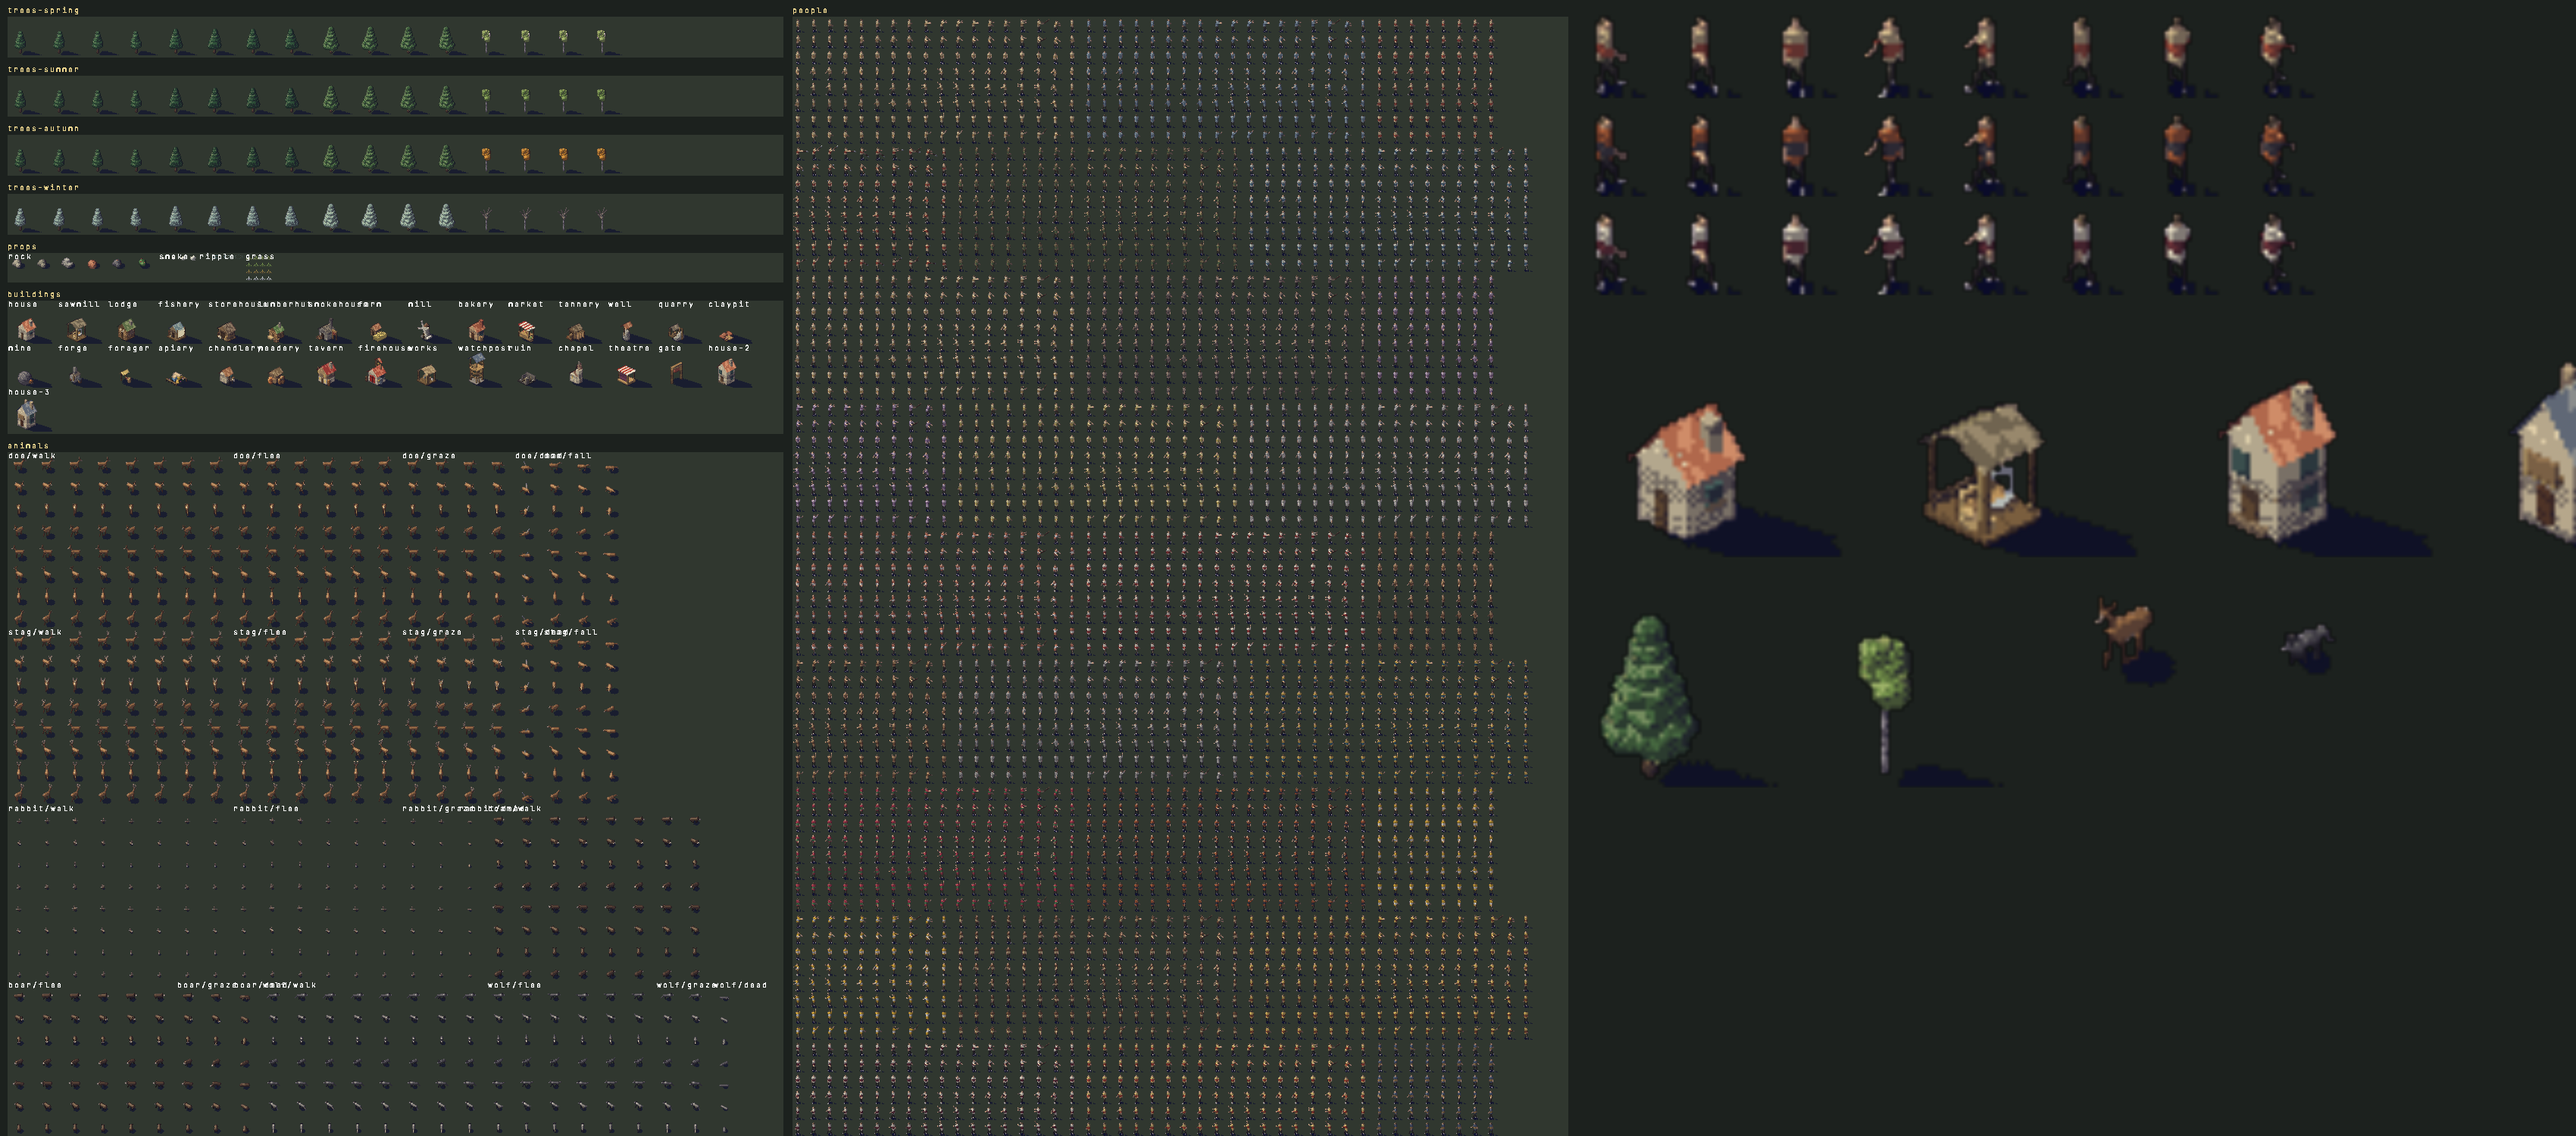
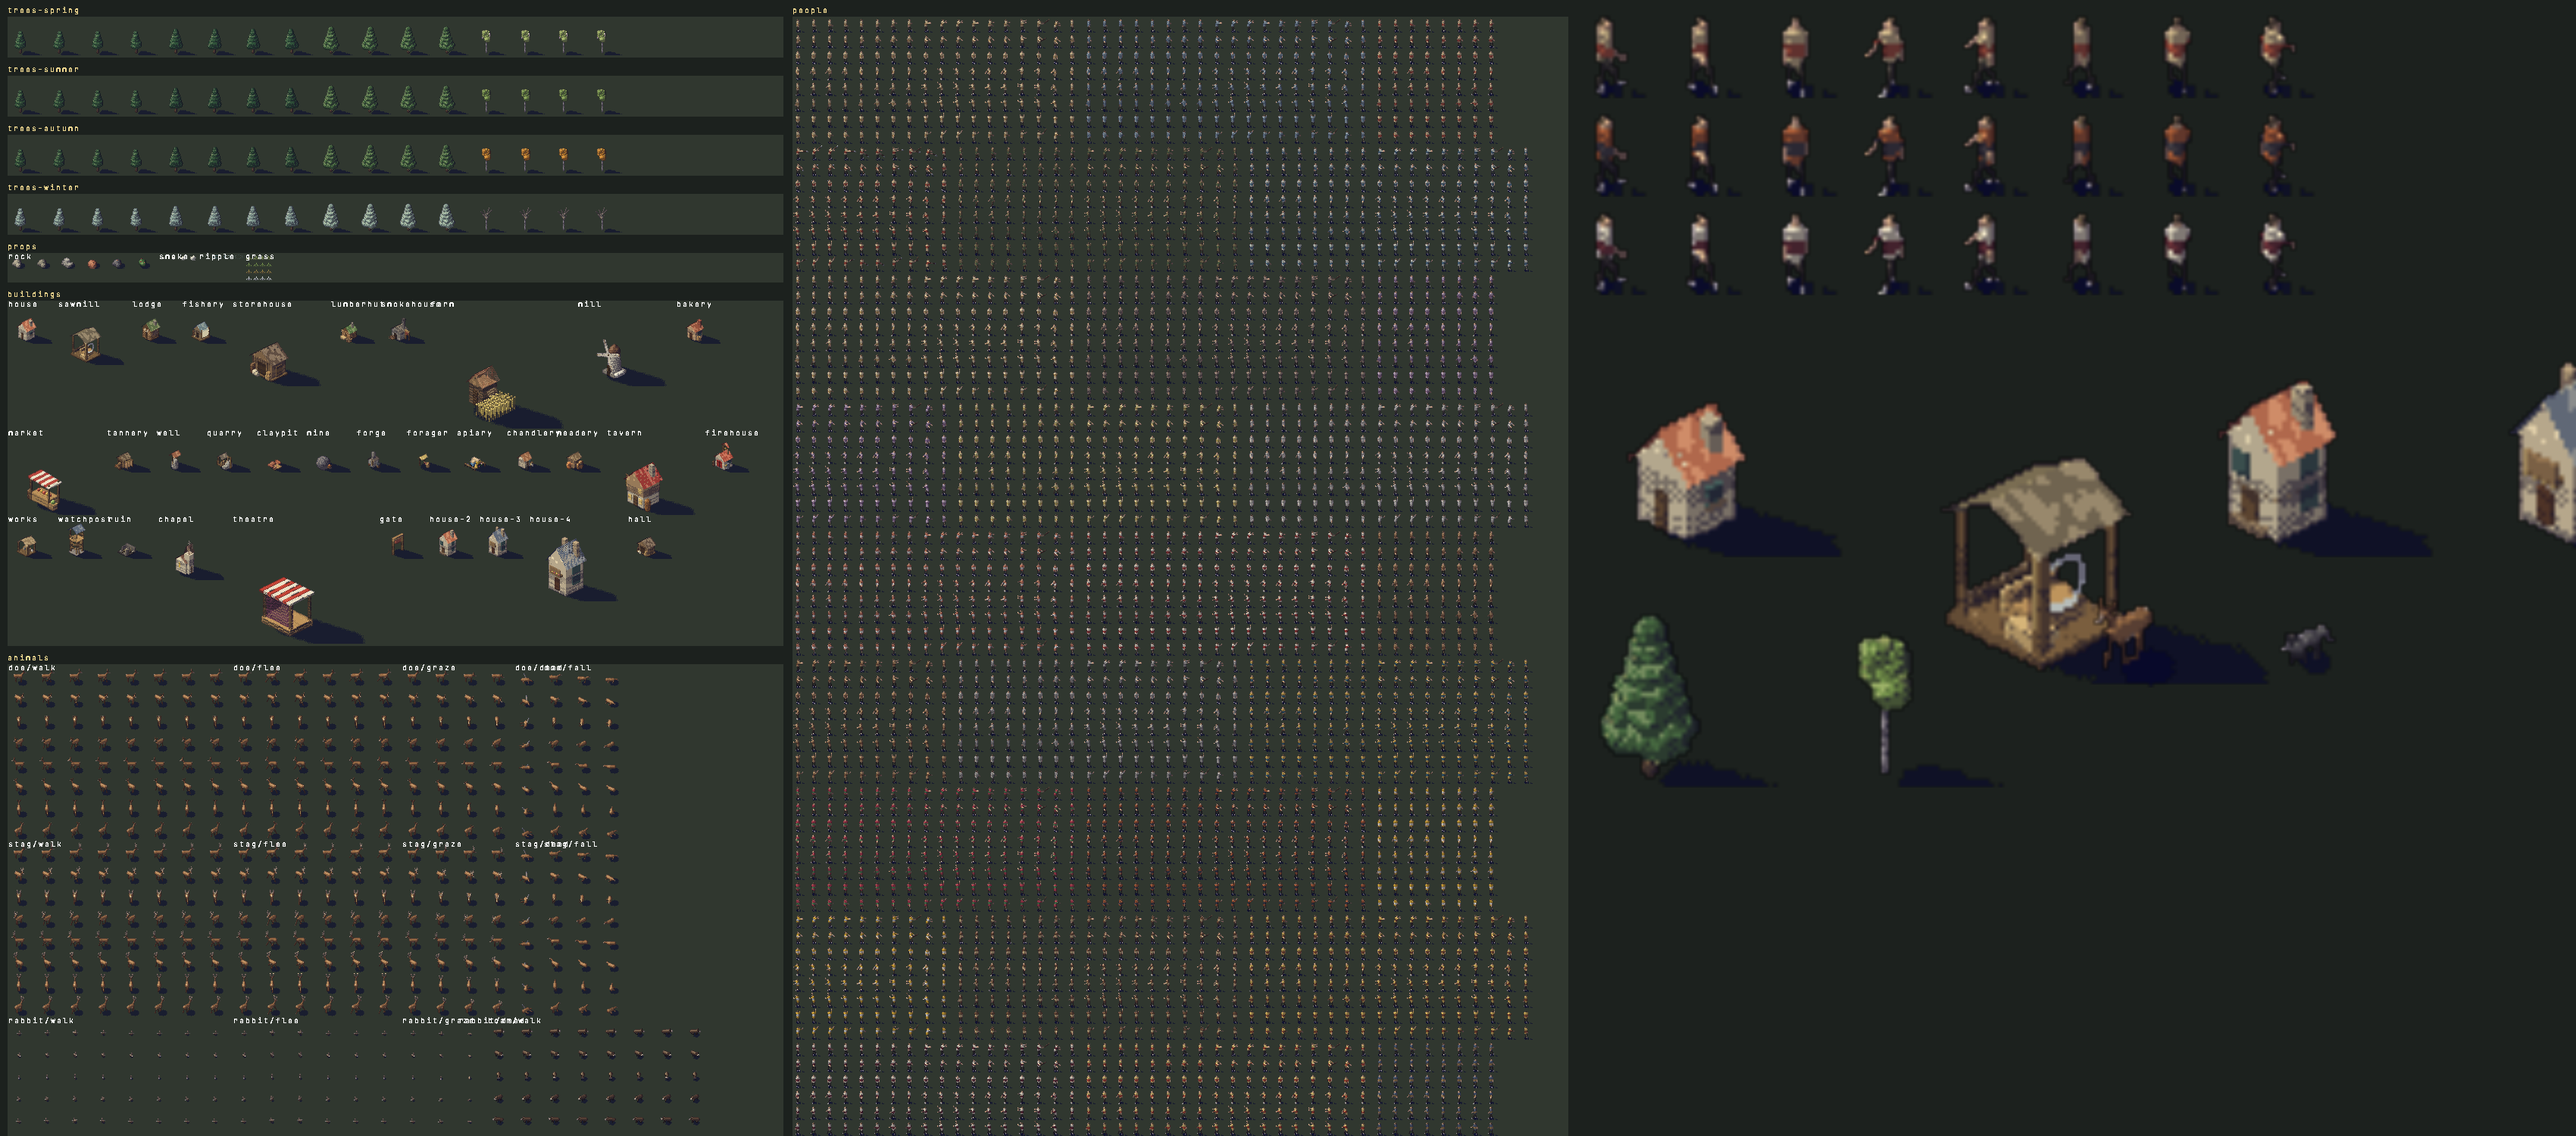
feat(hamlet): re-export the atlas for footprints, add a showcase start
Atlas re-exported with the sized groups (hamlet_atlas passes). ZINC_HAMLET_SHOWCASE=1 builds a street of storehouse, farm, theatre, mill, chapel, market, sawmill, tavern and a Manoir; a debug start closes the main menu a saved game would open. Cite shot read: 2x2 and 3x3 sprites sit centred on their footprint, 2x1 sprites look right with uniform lighting, no non-uniform bake needed. Not done yet: distance fields, animal cap, mission 5 bot, CAM clamp, shorter hamlet_bounds.

Changed region(s): [[0.0, 0.276, 0.3118, 1.0], [0.7482, 0.3373, 0.8418, 0.5827], [0.0, 0.9507, 0.0312, 0.9813]]

diff --git a/examples/hamlet/src/debugStart.ts b/examples/hamlet/src/debugStart.ts
@@ -2,7 +2,7 @@ import { env } from 'zinc:sys';
 import { world, newBuilding, tileX, tileY, spawnDeer, random, Person } from './world/world';
 import { economy } from './world/economy';
 import { TERRAIN_GRASS, ST_STROLL } from './constants';
-import { act } from './ui/state';
+import { act, ui, WIN_NONE } from './ui/state';
 import { PRESETS } from './gen/presets';
 import { TerrainParams } from './gen/terrain';
 import { TICK, TILE } from './constants';
@@ -30,6 +30,8 @@ export function debugStart(): void {
   params.coast = from.coast; params.outcrop = from.outcrop; params.flowers = from.flowers; params.biomes = from.biomes; params.wolves = from.wolves; params.relief = from.relief;
   act.newVillage(v[0], v.length > 1 ? v[1] : 24, false, false, params);
   crowd();
+  showcase();
+  ui.window = WIN_NONE;                                   // a debug start shows the village, not the main menu a saved game would open
   if (v.length > 5 && env('ZINC_HAMLET_VIEW') !== 'cite') jumpTo(v[4] * world.half, v[5] * world.half);
   const at = env('ZINC_HAMLET_CAM');                                    // "i,j,zoom" as for the Cité view: the old view looks at the same tile (its zoom stays the normal one: Cité zoom = 10 * fit.s0 / 22.63 matches it)
   if (at !== '' && env('ZINC_HAMLET_VIEW') !== 'cite') { const c = at.split(',').map((x: string): number => Number(x)); jumpTo(c[0] * TILE - world.half, c[1] * TILE - world.half); }
@@ -67,4 +69,30 @@ function crowd(): void {
   }
   world.revision++;
   act.loaded();
+}
+
+/** ZINC_HAMLET_SHOWCASE=1: a street east of the gate with one of each big building on both sides, on flattened ground (pictures of the footprints). Debug only. */
+function showcase(): void {
+  if (env('ZINC_HAMLET_SHOWCASE') !== '1') return;
+  const n = world.size, gi = world.gate % n, gj = Math.floor(world.gate / n);
+  const road = gj + 9;
+  for (let j = road - 8; j <= Math.min(n - 1, road + 8); j++) for (let i = 2; i < 36; i++) {
+    const t = j * n + i;
+    if (world.terrain[t] !== TERRAIN_GRASS) continue;
+    world.tree[t] = 0; world.rock[t] = 0; world.deco[t] = 0; world.height[t] = 0;
+  }
+  for (let i = gi; i < 36; i++) world.road[road * n + i] = 1;
+  for (let j = gj; j <= road; j++) world.road[j * n + gi] = 1;
+  const north: string[] = ['storehouse', 'farm', 'theatre', 'mill', 'chapel'], south: string[] = ['market', 'sawmill', 'tavern', 'house', 'house'];
+  let x = 3;
+  for (let k = 0; k < north.length; k++) { const t = economy.typeOf(north[k]), d = economy.buildings[t]; newBuilding(t, (road - d.h) * n + x); x += d.w + 1; }
+  x = 3;
+  for (let k = 0; k < south.length; k++) {
+    const t = economy.typeOf(south[k]), d = economy.buildings[t];
+    const id = newBuilding(t, (road + 1) * n + x);
+    if (k === 4) { world.buildings[id].level = 3; world.buildings[id].w = 2; world.buildings[id].h = 2; for (const u of [(road + 1) * n + x + 1, (road + 2) * n + x, (road + 2) * n + x + 1]) { world.build[u] = id; } }
+    if (k === 3) world.buildings[id].level = 1;
+    x += (k === 4 ? 2 : d.w) + 1;
+  }
+  world.netRev++; world.revision++;
 }
